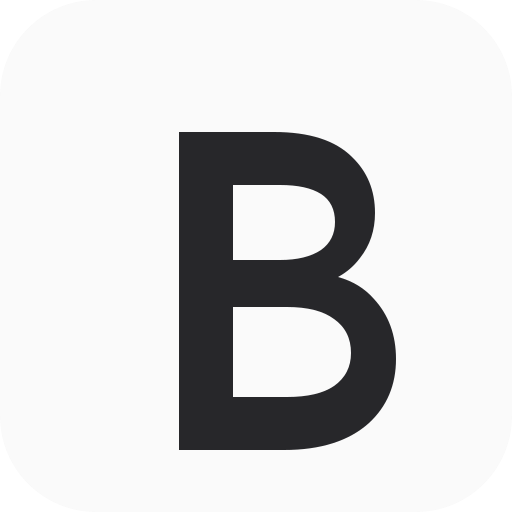
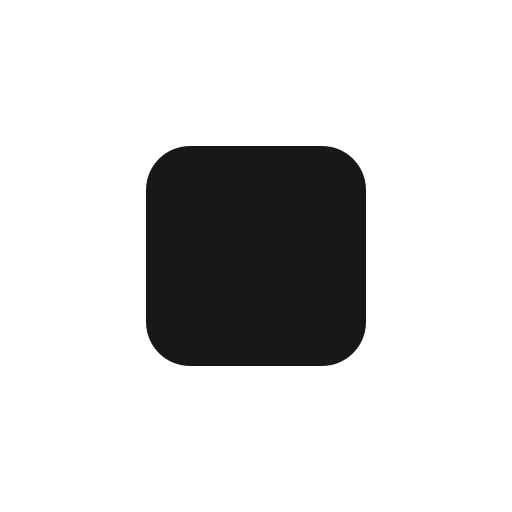
Replace B monogram with plain centered black rounded square
Drop the B glyph and use a minimal mark: white 512x512 canvas with a
centered #18181b rounded square (220x220, 44 radius). Sits well
inside the 80% maskable safe zone so squircle launcher masks don't
clip it. Regenerate icon-192/512/maskable-512 PNGs from the new
SVG; bump SW to invalidate caches.

Changed region(s): [[0.2812, 0.25, 0.7812, 0.9062], [0.4375, 0.3438, 0.6562, 0.5312]]

diff --git a/sw.js b/sw.js
@@ -1,5 +1,5 @@
 // B-Less service worker — offline-first app shell
-const VERSION = 'b-less-v4.6.4';
+const VERSION = 'b-less-v4.6.5';
 const SHELL = [
   './',
   './index.html',
